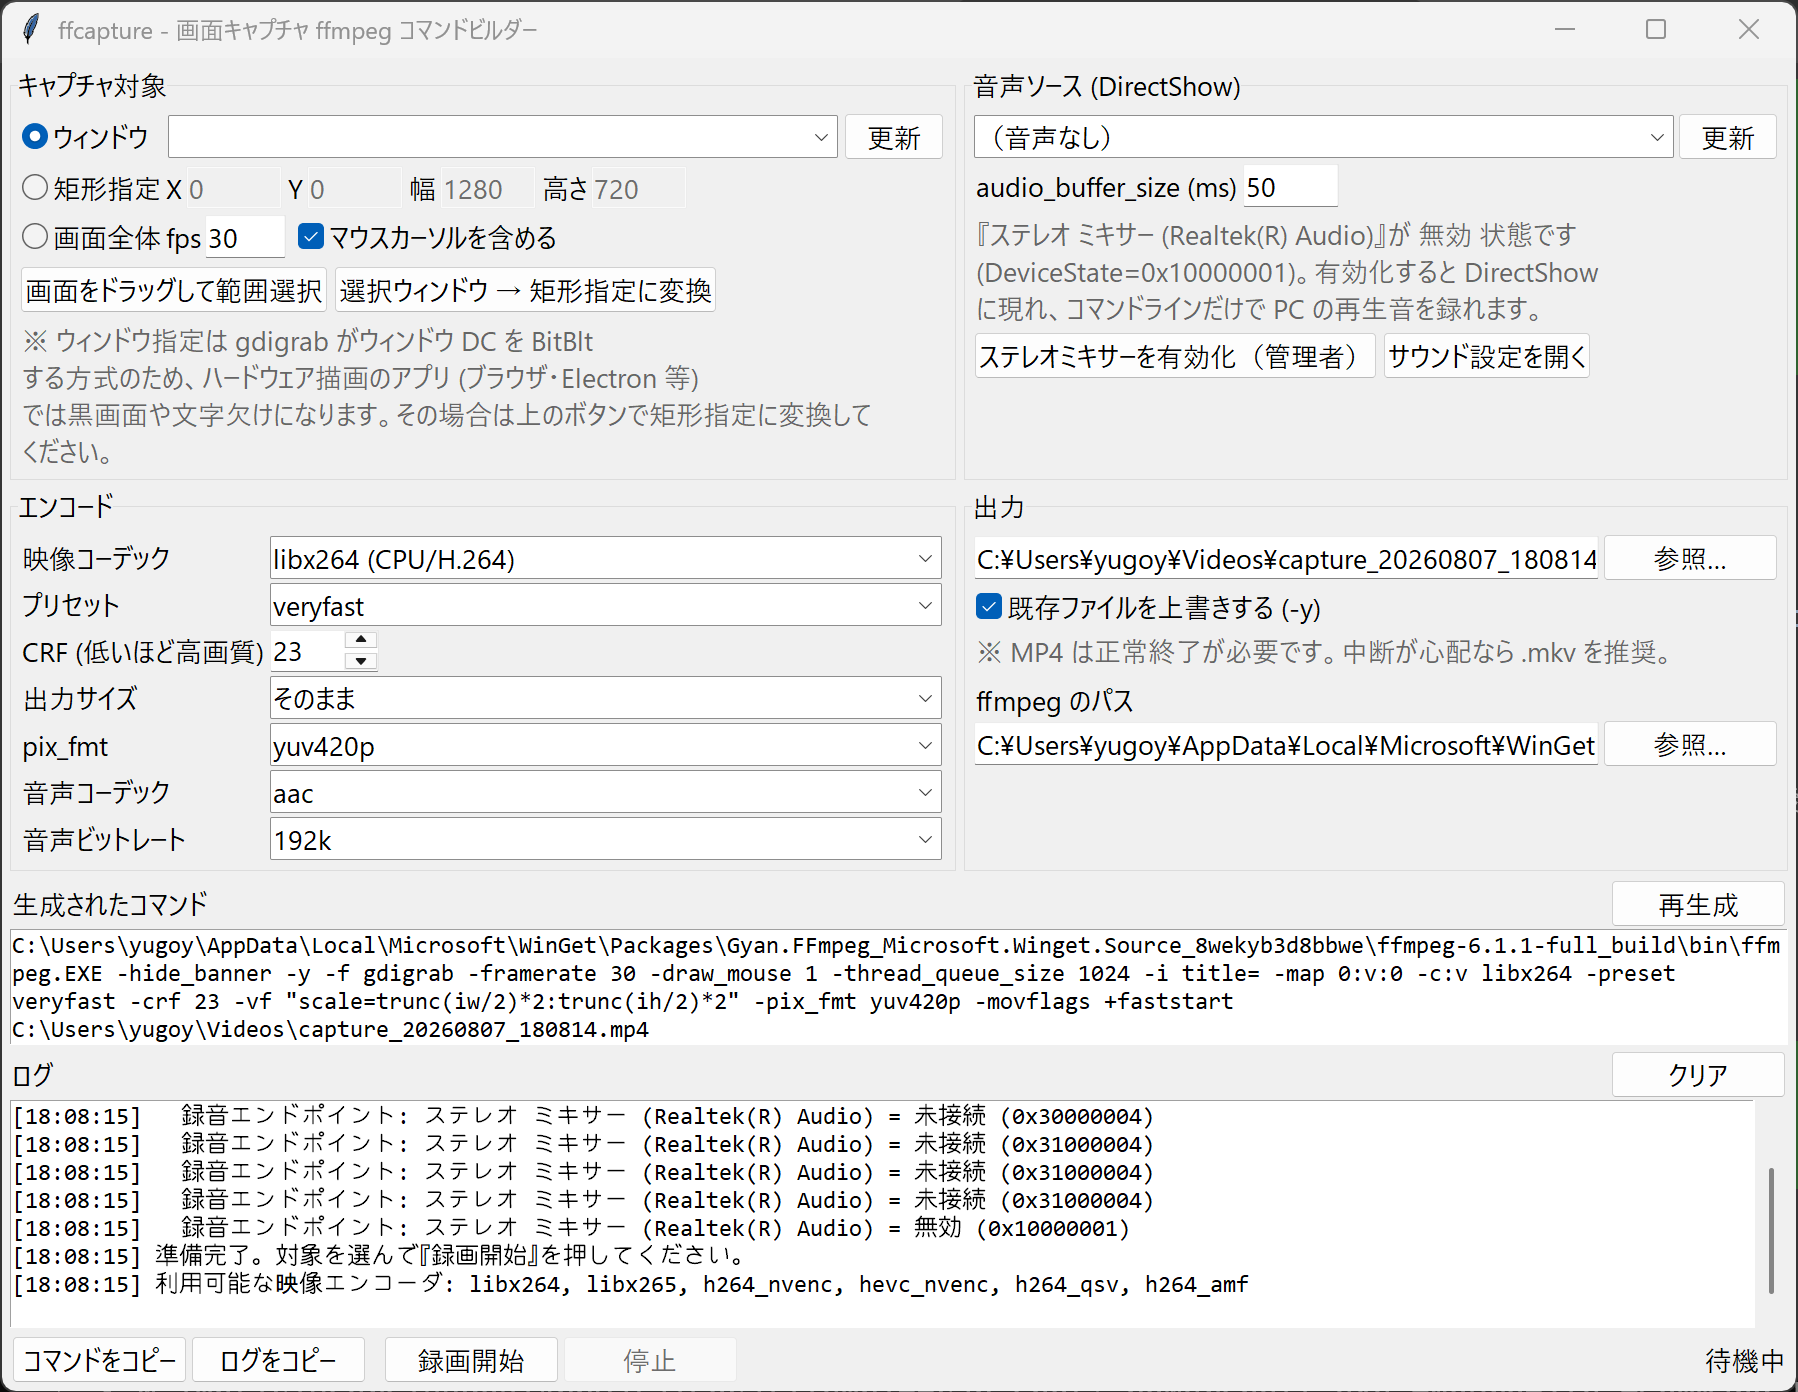
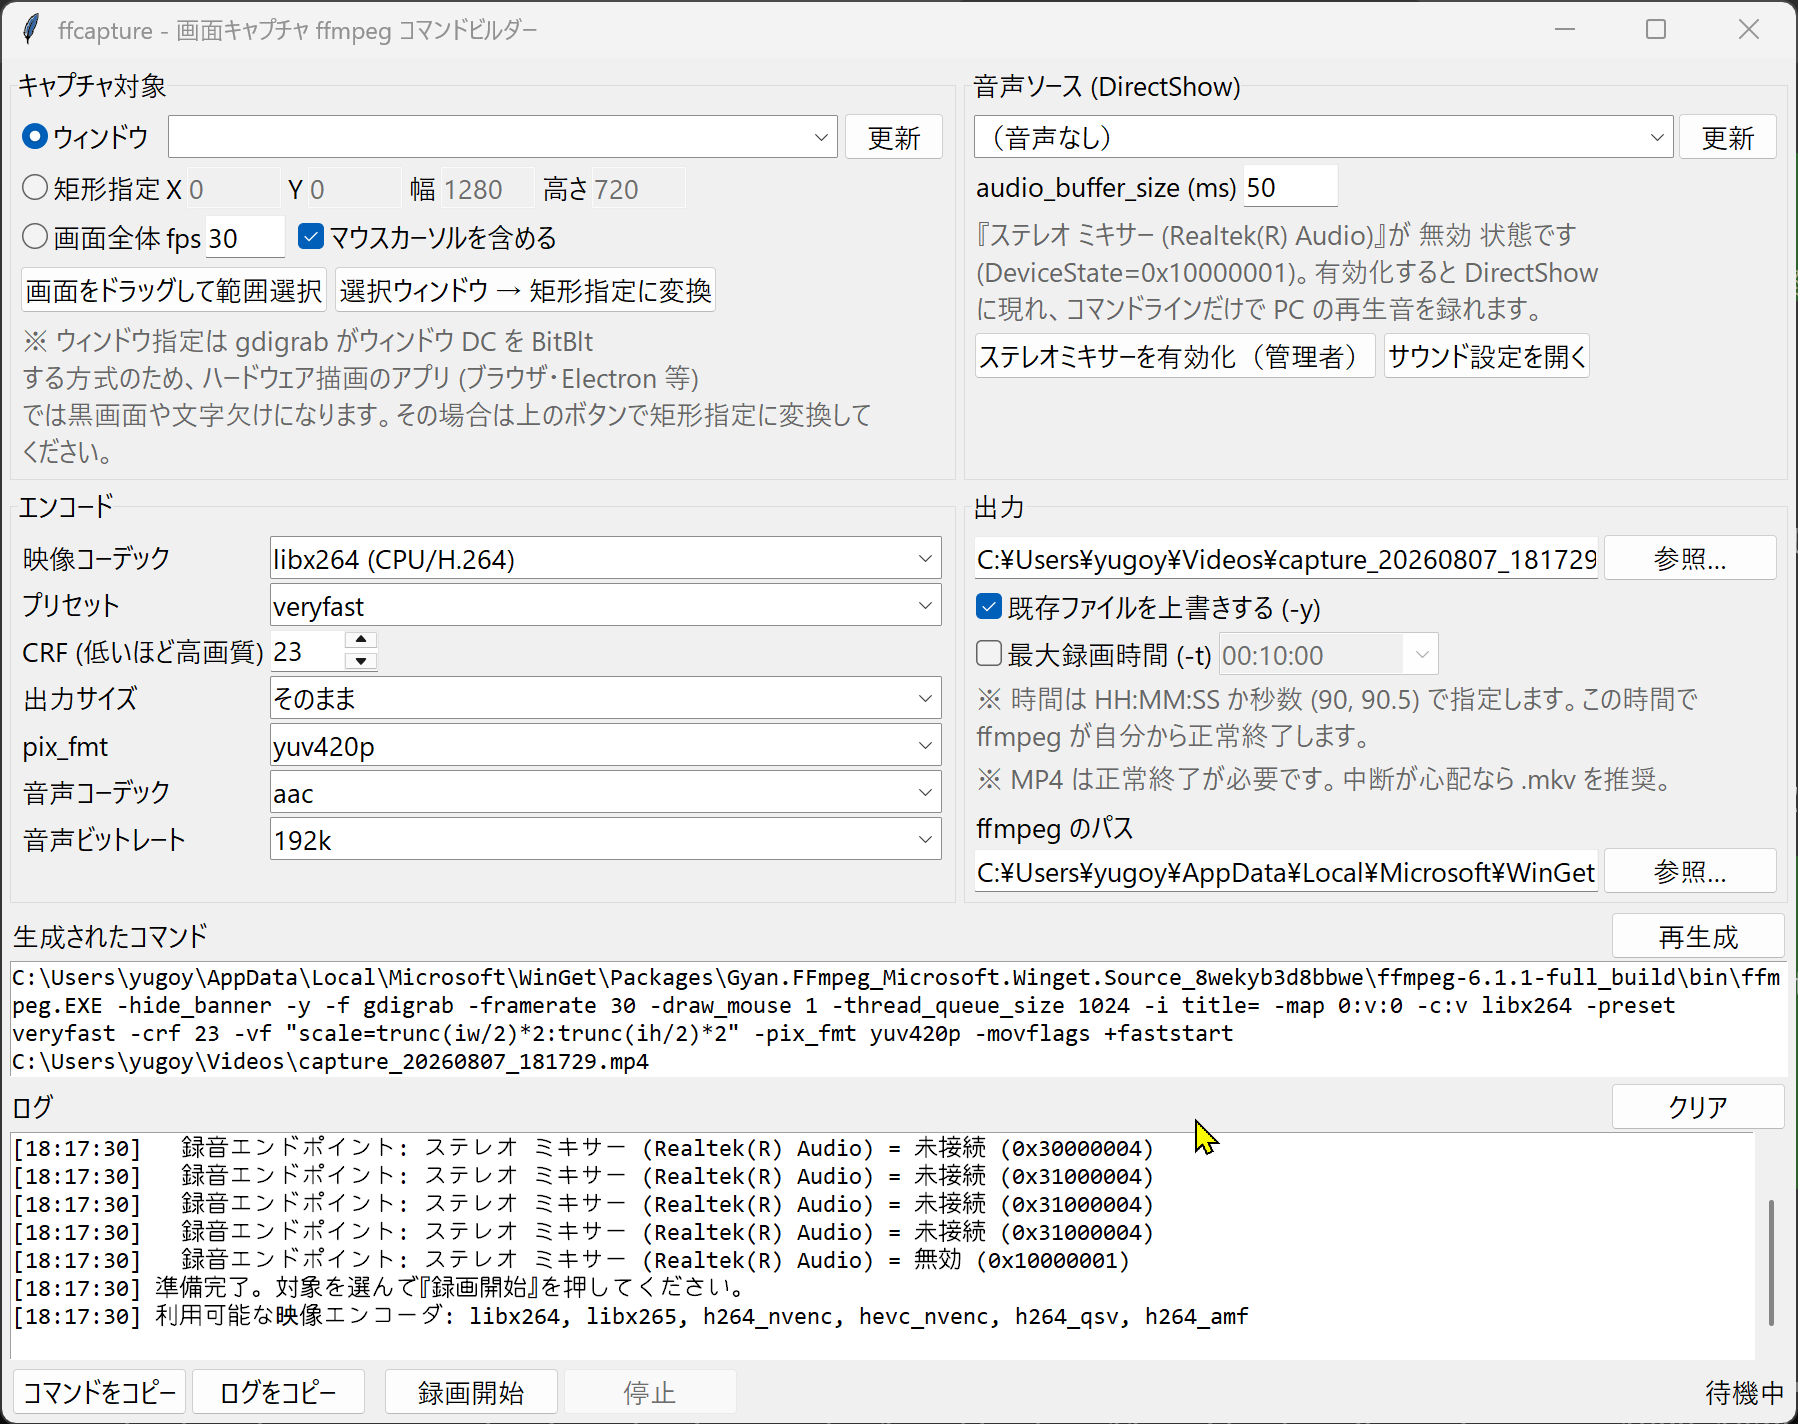
Add a maximum recording duration option (-t)
Checkbox plus an editable combobox in the output pane that appends
`-t <duration>` to the output side, so ffmpeg finalizes the file itself
instead of relying on the stop button.

Accepts HH:MM:SS or plain seconds; duration_seconds() parses both and the
UI echoes the parsed value in seconds (red when unparseable). The start
handler logs the expected auto-stop time.

Verified end to end: a 3-second capture exits 0 after 3.26s wall clock and
ffprobe reports duration=3.000000.

diff --git a/ffcapture.py b/ffcapture.py
@@ -370,6 +370,24 @@ class Config:
         # output
         self.outfile = ""
         self.overwrite = True
+        self.duration = ""              # 空なら時間無制限 (-t を付けない)
+
+
+# ffmpeg の -t が受け付ける時間表記: 秒数 (90 / 90.5) または [HH:]MM:SS[.xxx]
+DURATION_RE = re.compile(r"^(?:\d+(?:\.\d+)?|(?:\d{1,3}:)?\d{1,2}:\d{1,2}(?:\.\d+)?)$")
+
+
+def duration_seconds(text: str) -> float | None:
+    """時間表記を秒に直す。ffmpeg が解釈できない書き方なら None。"""
+    t = text.strip()
+    if not DURATION_RE.match(t):
+        return None
+    if ":" not in t:
+        return float(t)
+    sec = 0.0
+    for part in t.split(":"):
+        sec = sec * 60 + float(part)
+    return sec
 
 
 def _scale_filter(scale: str) -> str:
@@ -440,6 +458,10 @@ def build_args(cfg: Config) -> list[str]:
             a += ["-b:a", cfg.abitrate]
         # 取りこぼしがあっても時刻を保つ
         a += ["-af", "aresample=async=1:first_pts=0"]
+
+    # ---- 最大録画時間 ----
+    if cfg.duration:
+        a += ["-t", cfg.duration]
 
     if cfg.outfile.lower().endswith(".mp4"):
         a += ["-movflags", "+faststart"]
@@ -521,6 +543,8 @@ def run_gui() -> int:
         "capture_" + dt.datetime.now().strftime("%Y%m%d_%H%M%S") + ".mp4")
     v_out = tk.StringVar(value=default_out)
     v_overwrite = tk.BooleanVar(value=True)
+    v_limit_on = tk.BooleanVar(value=False)
+    v_limit = tk.StringVar(value="00:10:00")
     v_status = tk.StringVar(value="待機中")
 
     # ---------------- ログ ----------------
@@ -567,11 +591,15 @@ def run_gui() -> int:
         c.abitrate = v_abr.get().strip() or "192k"
         c.outfile = v_out.get().strip()
         c.overwrite = v_overwrite.get()
+        c.duration = v_limit.get().strip() if v_limit_on.get() else ""
         return c
 
     def validate(c: Config) -> str | None:
         if c.source == "window" and not c.title:
             return "ウィンドウタイトルを選択してください。"
+        if c.duration and duration_seconds(c.duration) is None:
+            return ("最大録画時間の書式が不正です。"
+                    "HH:MM:SS（例 00:05:00）か秒数（例 300）で指定してください。")
         if not c.outfile:
             return "出力ファイルを指定してください。"
         return None
@@ -737,13 +765,29 @@ def run_gui() -> int:
     ttk.Button(f_out, text="参照…", command=choose_out).grid(row=0, column=1, padx=(4, 0))
     ttk.Checkbutton(f_out, text="既存ファイルを上書きする (-y)", variable=v_overwrite,
                     command=refresh_preview).grid(row=1, column=0, sticky="w", pady=(4, 0))
-    ttk.Label(f_out, text="※ MP4 は正常終了が必要です。中断が心配なら .mkv を推奨。",
-              foreground="#666", wraplength=wrap(380)).grid(row=2, column=0, columnspan=2,
-                                                      sticky="w", pady=(2, 0))
 
-    ttk.Label(f_out, text="ffmpeg のパス").grid(row=3, column=0, sticky="w", pady=(8, 0))
+    f_lim = ttk.Frame(f_out)
+    f_lim.grid(row=2, column=0, columnspan=2, sticky="w", pady=(4, 0))
+    ttk.Checkbutton(f_lim, text="最大録画時間 (-t)", variable=v_limit_on,
+                    command=lambda: on_limit()).grid(row=0, column=0)
+    cb_limit = ttk.Combobox(f_lim, textvariable=v_limit, width=12,
+                            values=["00:00:30", "00:01:00", "00:05:00", "00:10:00",
+                                    "00:30:00", "01:00:00", "02:00:00"])
+    cb_limit.grid(row=0, column=1, padx=4)
+    lbl_limit = ttk.Label(f_lim, text="", foreground="#666")
+    lbl_limit.grid(row=0, column=2)
+
+    ttk.Label(f_out, text="※ 時間は HH:MM:SS か秒数 (90, 90.5) で指定します。"
+                         "この時間で ffmpeg が自分から正常終了します。",
+              foreground="#666", wraplength=wrap(380)).grid(row=3, column=0, columnspan=2,
+                                                            sticky="w", pady=(2, 0))
+    ttk.Label(f_out, text="※ MP4 は正常終了が必要です。中断が心配なら .mkv を推奨。",
+              foreground="#666", wraplength=wrap(380)).grid(row=4, column=0, columnspan=2,
+                                                            sticky="w", pady=(2, 0))
+
+    ttk.Label(f_out, text="ffmpeg のパス").grid(row=5, column=0, sticky="w", pady=(8, 0))
     e_ff = ttk.Entry(f_out, textvariable=v_ffmpeg)
-    e_ff.grid(row=4, column=0, sticky="ew")
+    e_ff.grid(row=6, column=0, sticky="ew")
     e_ff.bind("<KeyRelease>", refresh_preview)
 
     def choose_ffmpeg():
@@ -753,7 +797,7 @@ def run_gui() -> int:
             v_ffmpeg.set(p)
             refresh_preview()
 
-    ttk.Button(f_out, text="参照…", command=choose_ffmpeg).grid(row=4, column=1, padx=(4, 0))
+    ttk.Button(f_out, text="参照…", command=choose_ffmpeg).grid(row=6, column=1, padx=(4, 0))
 
     # --- コマンドプレビュー + ログ ---
     lower = ttk.Frame(root, padding=(8, 0, 8, 8))
@@ -823,6 +867,21 @@ def run_gui() -> int:
         v_qlabel.set(enc["quality_label"])
         refresh_preview()
 
+    def on_limit(*_):
+        on = v_limit_on.get()
+        cb_limit.configure(state="normal" if on else "disabled")
+        if not on:
+            lbl_limit.configure(text="", foreground="#666")
+        else:
+            sec = duration_seconds(v_limit.get())
+            if sec is None:
+                lbl_limit.configure(text="書式が不正です", foreground="#b00020")
+            else:
+                lbl_limit.configure(text=f"= {sec:g} 秒", foreground="#666")
+        refresh_preview()
+
+    cb_limit.bind("<<ComboboxSelected>>", on_limit)
+    cb_limit.bind("<KeyRelease>", on_limit)
     cb_vc.bind("<<ComboboxSelected>>", on_vcodec)
     for cb in (cb_win, cb_audio, cb_preset):
         cb.bind("<<ComboboxSelected>>", refresh_preview)
@@ -1016,6 +1075,10 @@ def run_gui() -> int:
             os.makedirs(outdir, exist_ok=True)
         argv = build_args(c)
         log("実行: " + command_line(c))
+        if c.duration:
+            sec = duration_seconds(c.duration) or 0.0
+            end = dt.datetime.now() + dt.timedelta(seconds=sec)
+            log(f"最大録画時間 {c.duration} ({sec:g} 秒)。{end:%H:%M:%S} 頃に自動終了します。")
 
         try:
             proc = subprocess.Popen(
@@ -1099,6 +1162,7 @@ def run_gui() -> int:
     log(f"python: {sys.executable}")
     on_vcodec()
     on_source()
+    on_limit()
     refresh_windows()
     refresh_audio(True)
     threading.Thread(target=probe_encoders, daemon=True).start()

diff --git a/README.md b/README.md
@@ -73,6 +73,15 @@ Realtek などのドライバが持っていても既定で無効化されてい
 起動時に `ffmpeg -encoders` を叩いて、実際に使えるものだけを候補に出します。
 品質指定（CRF / CQ / QP / global_quality）はエンコーダごとに適切なオプションへ振り分けます。
 
+### 最大録画時間
+
+「最大録画時間 (-t)」をチェックすると `-t <時間>` を出力側に付けます。
+指定した時間が経つと ffmpeg が自分から**正常終了**するので、MP4 でもファイルが壊れません。
+
+- 書式は `HH:MM:SS`（例 `00:05:00`）か秒数（例 `300`、`90.5`）
+- 入力欄の右に解釈結果が秒で表示され、書式が不正なら赤字で警告します
+- 録画開始時に自動終了の予定時刻をログに出します
+
 ## 生成されるコマンドの例
 
 ```
